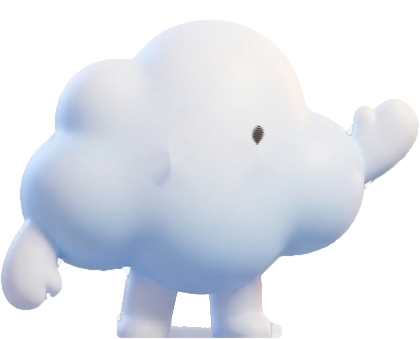
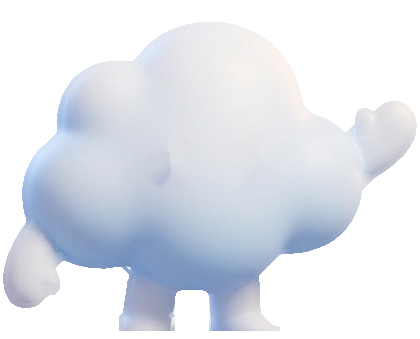
Wölkchen: sauberer Ausschnitt, nur der Blitz leuchtet auf
Claude-Session: https://claude.ai/code/session_01XuEgEKXH5CVDx1qfGUkAmV

diff --git a/public/css/style.css b/public/css/style.css
@@ -1137,11 +1137,9 @@ body.drop-ready .table-surface { box-shadow: 0 0 0 1.2cqw rgba(110,230,140,.8), 
 .av-toast .fb { animation-name: av-pop; animation-duration: 5s; }
 .av-roboter .fb { animation-name: av-bob, av-sway; animation-duration: 3s, 6s; }
 @keyframes av-pop { 0%,60%,100% { translate: 0 0; scale: 1 1; } 66% { scale: 1.05 .94; } 76% { translate: 0 -7%; scale: .98 1.04; } 86% { translate: 0 0; scale: 1.04 .95; } 92% { scale: 1 1; } }
-/* Blitz leuchtet, Wolke blitzt kurz mit */
+/* Nur der Blitz leuchtet auf */
 .fig .bit.bolt { animation: av-bit var(--bt, 5s) ease-in-out var(--bd, 0s) infinite, av-bolt 6s linear var(--bd, 0s) infinite; }
 @keyframes av-bolt { 0%,76%,100% { filter: drop-shadow(0 0 0 rgba(255,230,90,0)) brightness(1); } 78% { filter: drop-shadow(0 0 7px rgba(255,235,100,1)) brightness(1.5); } 80% { filter: brightness(.95); } 83% { filter: drop-shadow(0 0 10px rgba(255,235,100,1)) brightness(1.7); } 90% { filter: drop-shadow(0 0 4px rgba(255,235,100,.5)) brightness(1.15); } }
-.av-wolke .fb > img.body { animation: av-cloudflash 6s linear var(--d, 0s) infinite; }
-@keyframes av-cloudflash { 0%,76%,100% { filter: drop-shadow(0 6px 6px rgba(0,0,0,.55)) brightness(1); } 78% { filter: drop-shadow(0 6px 6px rgba(0,0,0,.55)) drop-shadow(0 0 8px rgba(255,235,120,.8)) brightness(1.1); } 83% { filter: drop-shadow(0 6px 6px rgba(0,0,0,.55)) drop-shadow(0 0 12px rgba(255,235,120,.9)) brightness(1.14); } 90% { filter: drop-shadow(0 6px 6px rgba(0,0,0,.55)) brightness(1.03); } }
 .fig .bit.drop { animation: av-drop 5s ease-in var(--bd, 0s) infinite; }
 @keyframes av-drop { 0% { translate: 0 -2cqmin; opacity: 0; scale: .5; } 12% { opacity: 1; scale: 1; } 80% { opacity: 1; } 100% { translate: 0 11cqmin; opacity: 0; scale: .9; } }
 .fig .bit.gear { animation: av-spin 10s linear var(--bd, 0s) infinite var(--dir, normal); }
@@ -1153,7 +1151,7 @@ body.drop-ready .table-surface { box-shadow: 0 0 0 1.2cqw rgba(110,230,140,.8), 
 .fig .orb { position: absolute; z-index: 2; pointer-events: none; aspect-ratio: 1; transform: translate(-50%, -50%); border-radius: 50%; background: radial-gradient(circle, rgba(255,214,120,.95), rgba(255,150,40,.5) 45%, transparent 72%); mix-blend-mode: screen; animation: av-orb 2.4s ease-in-out var(--d, 0s) infinite; }
 @keyframes av-orb { 0%,100% { opacity: .35; scale: .8; } 50% { opacity: 1; scale: 1.25; } }
 .me-bust .fig .orb { display: none; }
-@media (prefers-reduced-motion: reduce) { .fig .bit.bolt, .fig .bit.drop, .fig .bit.gear, .fig .orb, .av-wolke .fb > img.body { animation: none !important; } }
+@media (prefers-reduced-motion: reduce) { .fig .bit.bolt, .fig .bit.drop, .fig .bit.gear, .fig .orb { animation: none !important; } }
 
 /* Ranked-Kachel: gleiche Schrift wie Lobby erstellen / Gegen Bots */
 .tile-big.ranked b { color: #fff; -webkit-text-stroke: 1.4px #3a0a14; paint-order: stroke fill; text-shadow: 0 3px 0 #3a0a14; text-transform: uppercase; }

diff --git a/public/sw.js b/public/sw.js
@@ -1,7 +1,7 @@
 'use strict';
 /* UNKNOWN – Service Worker: App-Hülle und Bilder offline zwischenspeichern.
    Spielstand läuft ausschließlich über WebSocket und wird nie gecacht. */
-const VERSION = 'unknown-v53';
+const VERSION = 'unknown-v54';
 const SHELL = ['/', '/css/style.css', '/js/app.js', '/data/sets.json', '/data/avatars.json', '/manifest.webmanifest', '/assets/logo.png'];
 
 self.addEventListener('install', (e) => {
